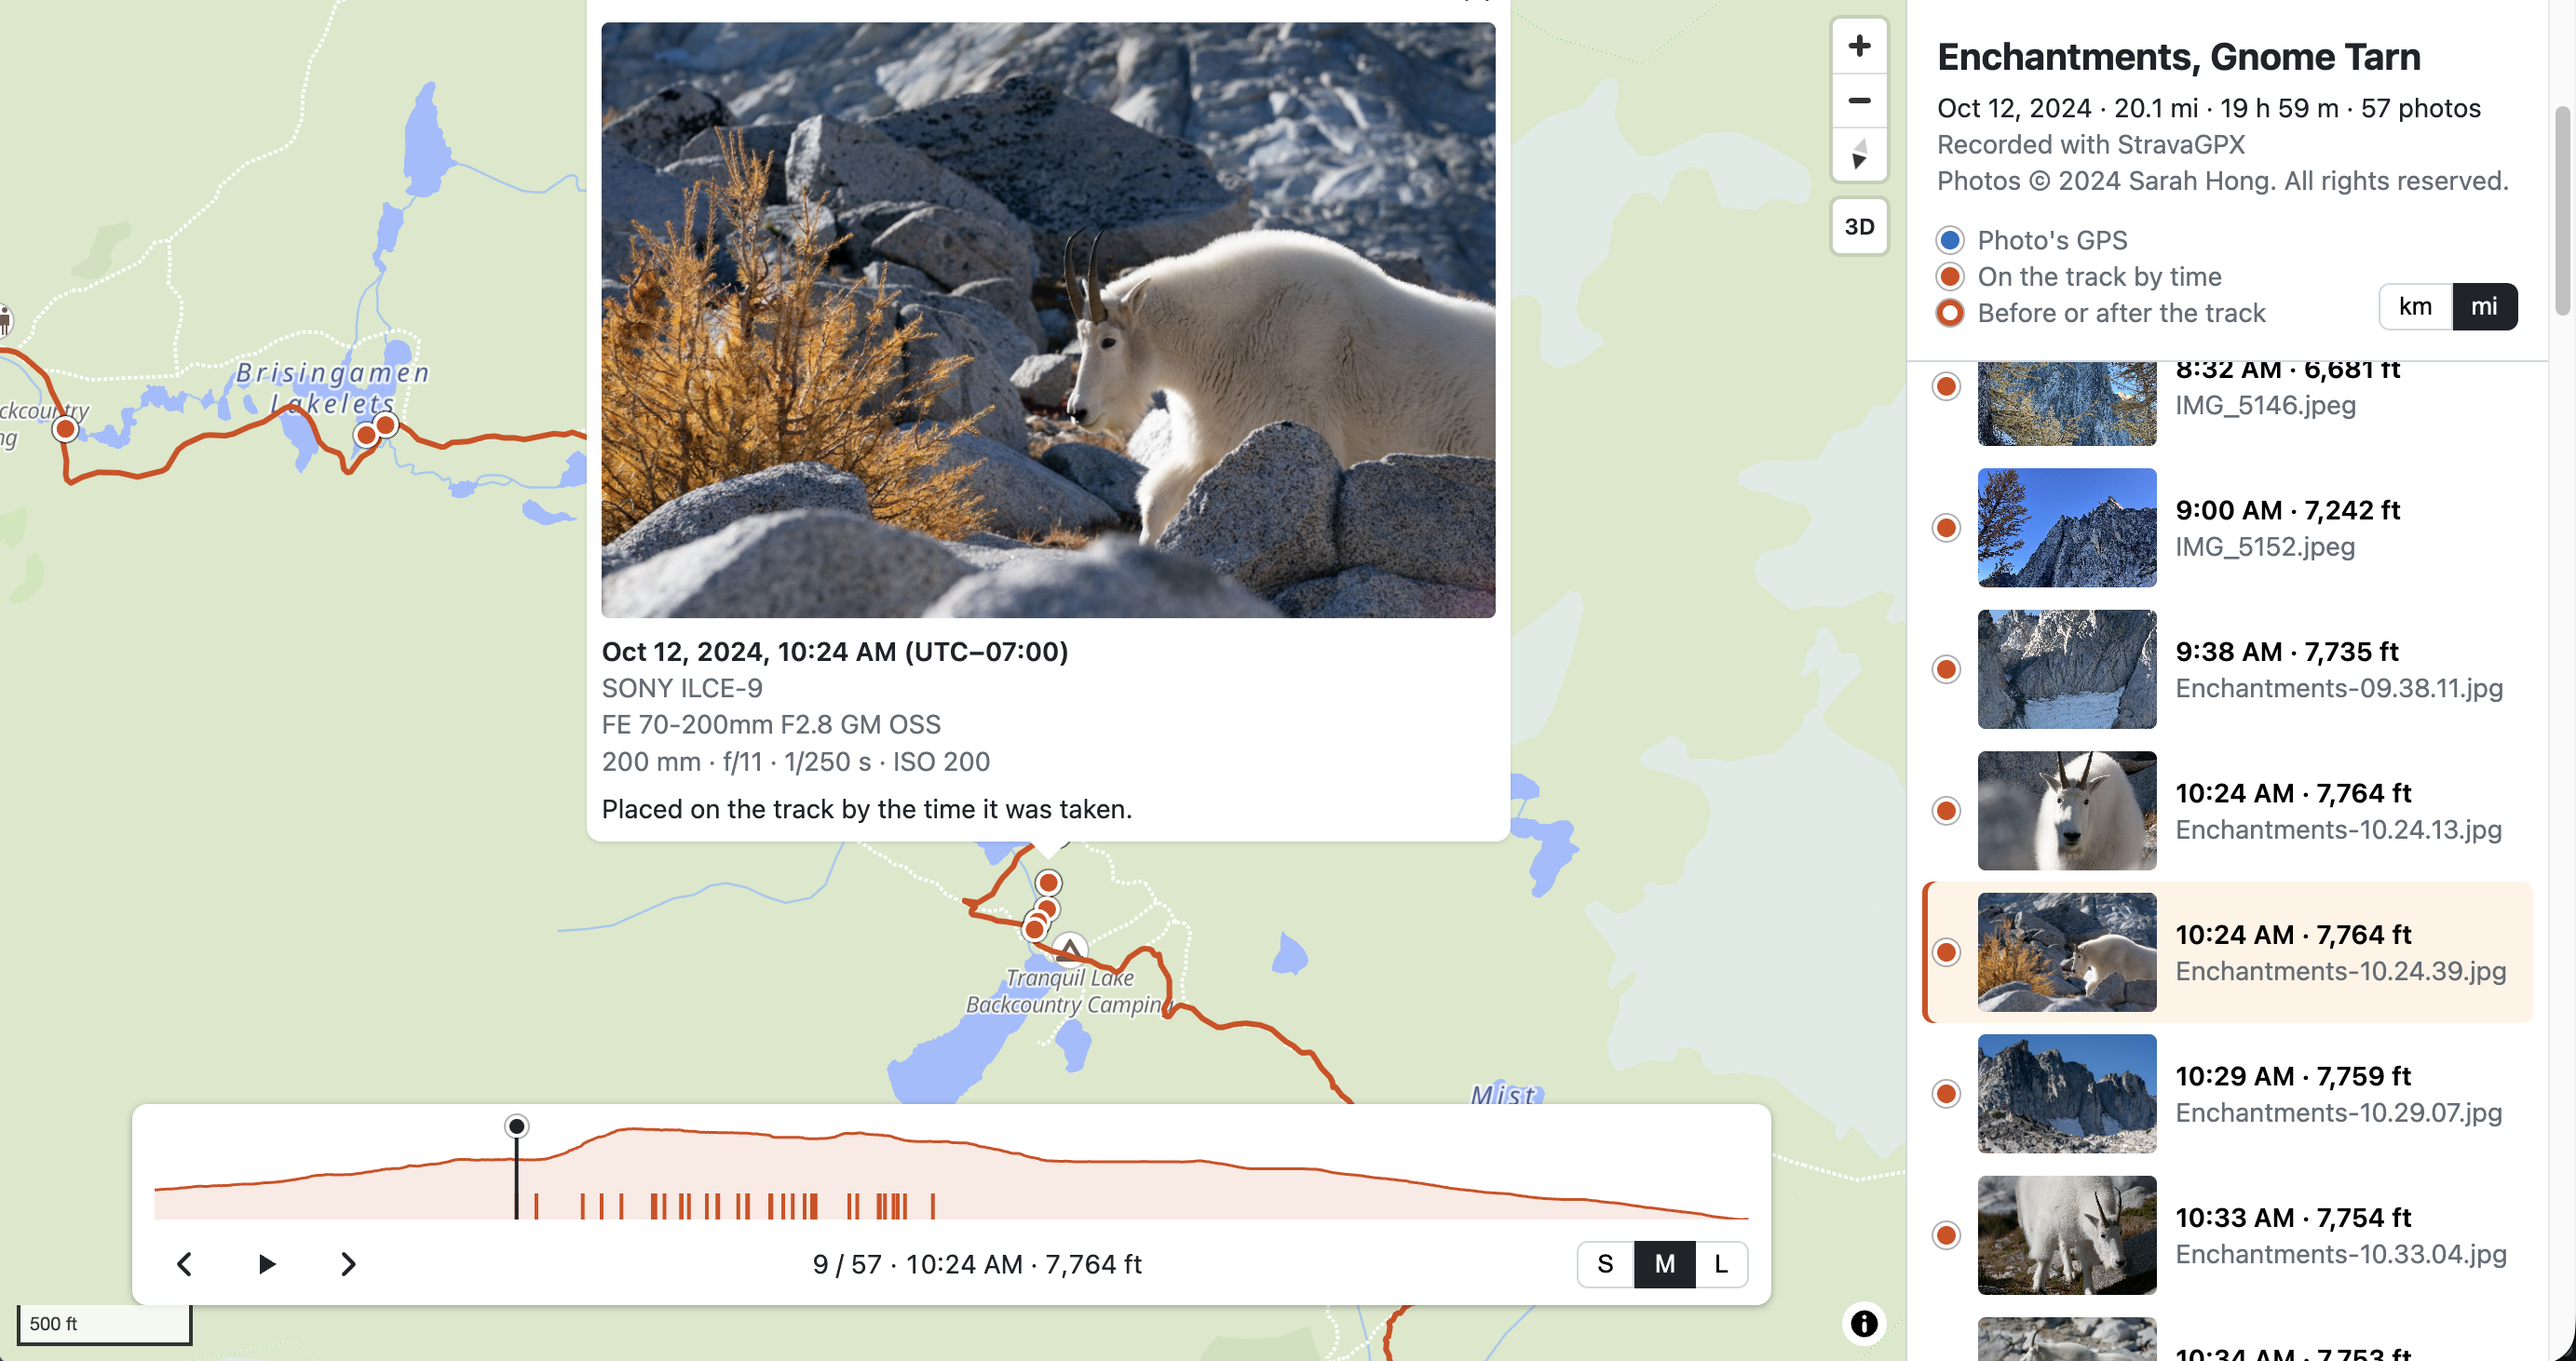
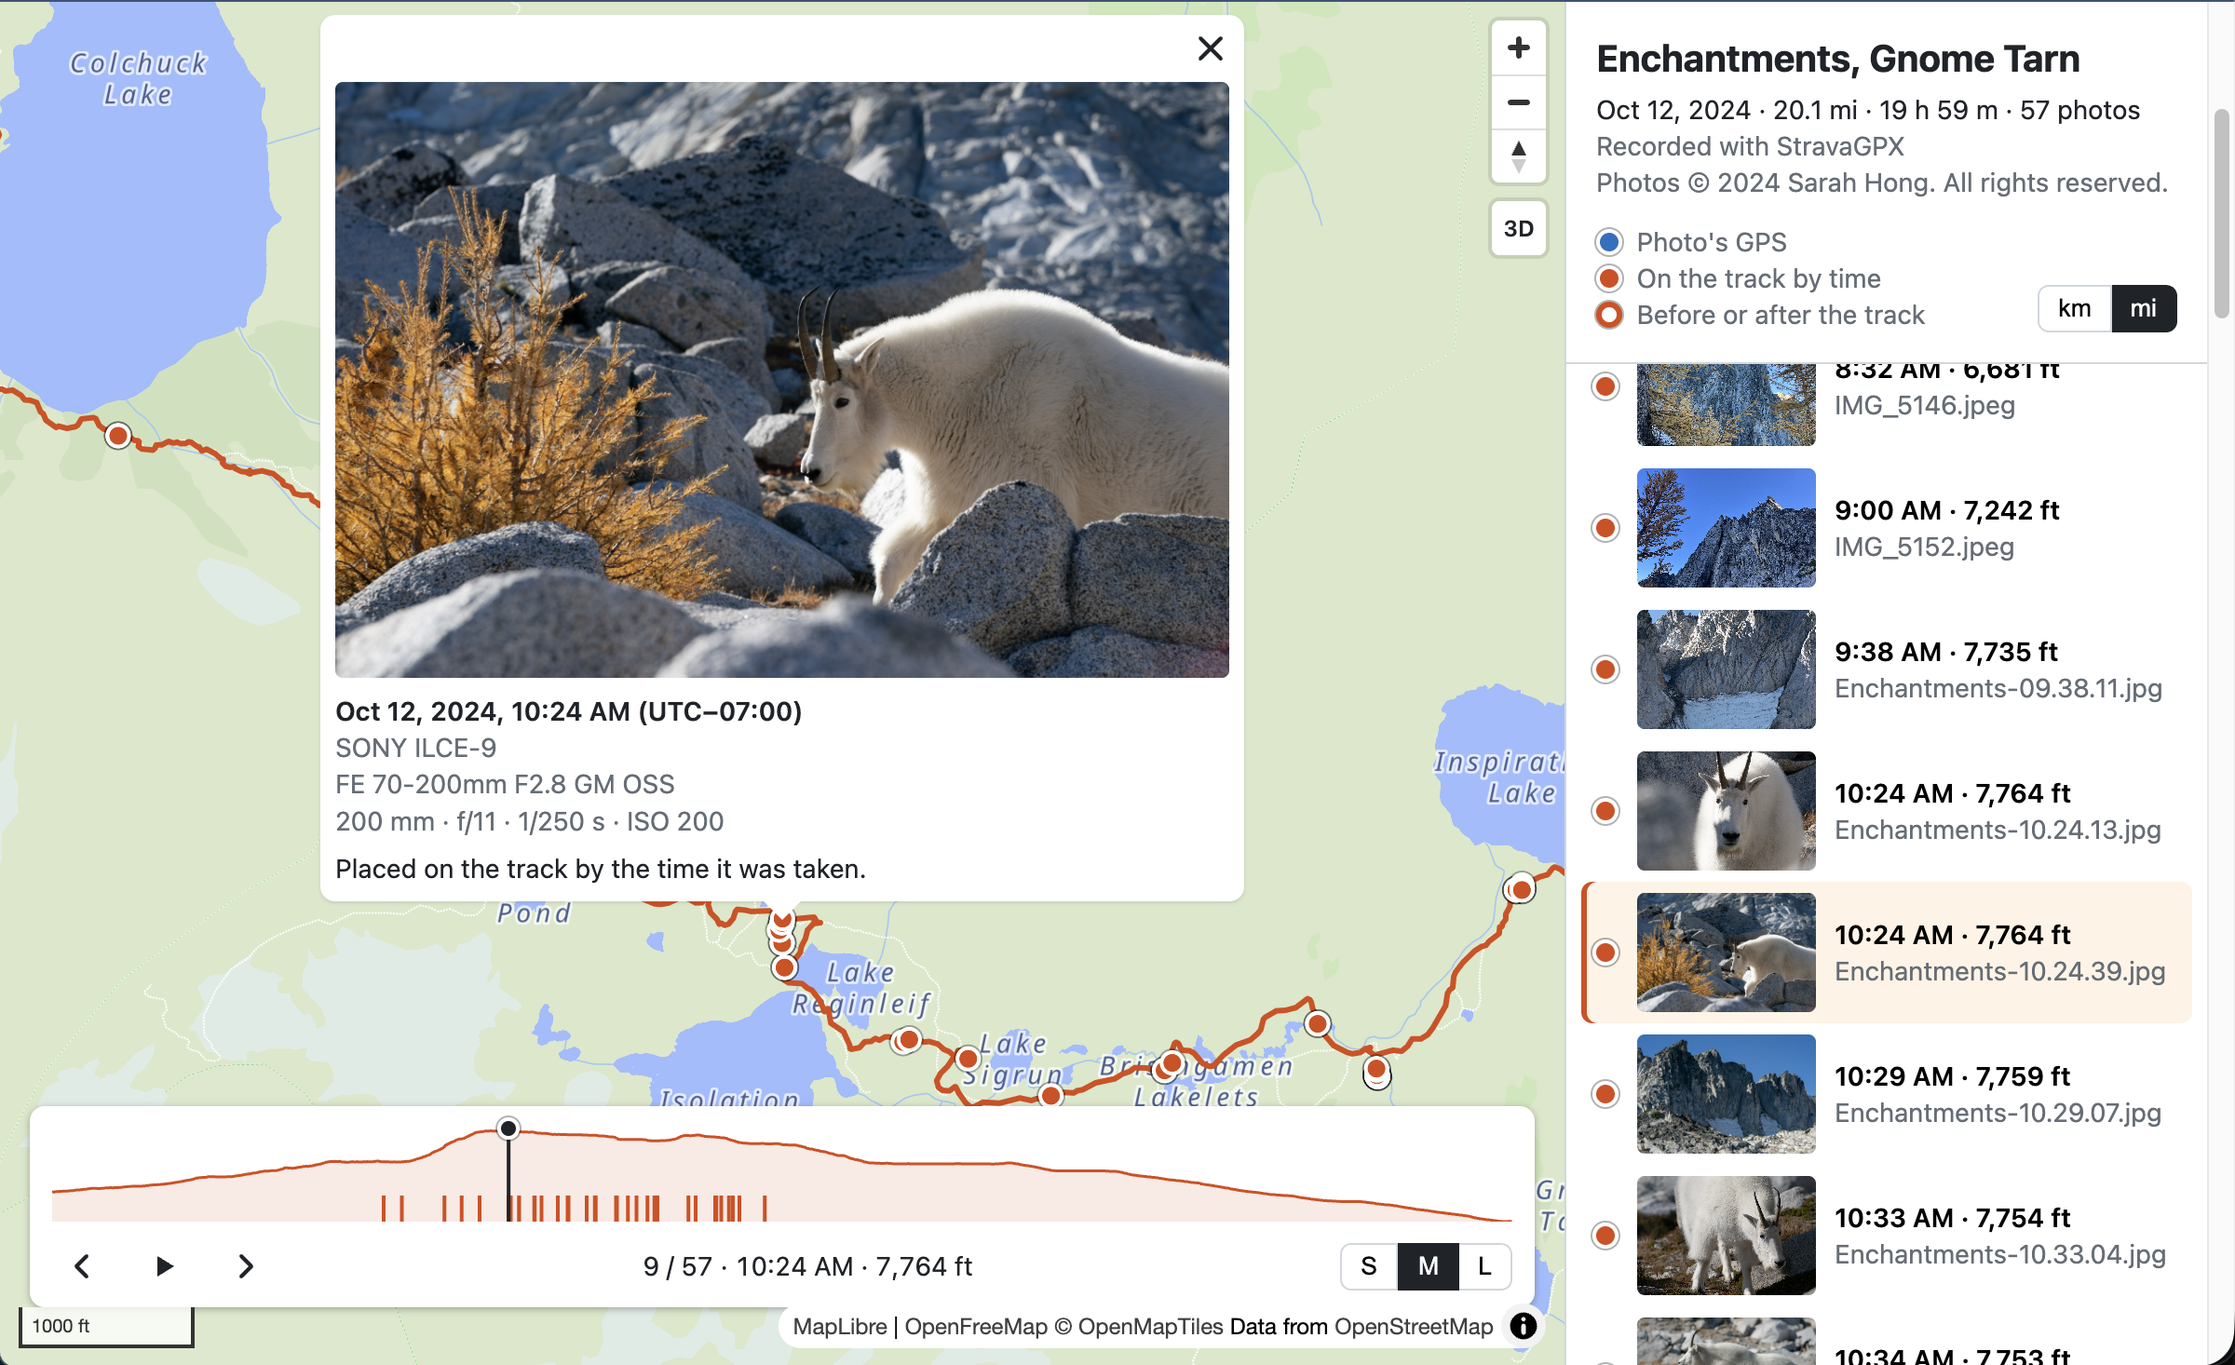
Fix flythrough handle to update when selecting photos from side panel, fix readme (#11)

diff --git a/internal/site/web/assets/app.js b/internal/site/web/assets/app.js
@@ -504,13 +504,23 @@ function highlightPin(index, on) {
 const popup = new maplibregl.Popup({ offset: 12, maxWidth: "none", anchor: "bottom", closeOnClick: false, closeButton: false });
 popup.on("close", () => stops[current]?.row.classList.remove("current"));
 
+// resumeFrom sets the flythrough to resume from the photo at index in stops,
+// and moves the profile's playhead to it. A photo without a time isn't on
+// the timeline, so nothing changes.
+function resumeFrom(index) {
+  const { meters } = stops[index];
+  if (meters === undefined) return;
+  clock = timeline.find((part) => part.stop === index).start;
+  renderPlayhead(meters);
+}
+
 // openPopup opens the popup of the photo at index in stops, leaving the
 // flythrough, which resumes from this photo. The content is built here: an
 // <img> starts downloading as soon as it has a src.
 function openPopup(index) {
   leaveFlythrough();
-  const { photo, meters } = stops[index];
-  if (meters !== undefined) clock = timeline.find((part) => part.stop === index).start;
+  resumeFrom(index);
+  const { photo } = stops[index];
   const content = popupContent(photo);
   content.querySelector("img").addEventListener("load", fitPopup);
   popup.remove(); // before select, as closing unhighlights the current row
@@ -526,6 +536,7 @@ function show(index) {
   leaveFlythrough(); // before flyTo, so the follow camera doesn't move the map
   popup.remove();
   select(index);
+  resumeFrom(index); // now, rather than once the camera arrives
   // No padding: the flythrough leaves some to keep its marker clear of the dock.
   const camera = { center, zoom: Math.max(map.getZoom(), photoZoom), padding: noPadding };
   if (map.getTerrain() && meters !== undefined) {
@@ -755,6 +766,15 @@ function clockAt(meters) {
   return part.start + (Math.acos(1 - 2 * fraction) / Math.PI) * part.seconds; // inverse of ease
 }
 
+// renderPlayhead moves the profile's playhead, its handle, and the scrub
+// input to meters along the drawn track.
+function renderPlayhead(meters) {
+  playhead.setAttribute("x1", meters);
+  playhead.setAttribute("x2", meters);
+  handle.style.left = `${(meters / Math.max(trackMeters, 1)) * 100}%`;
+  scrub.value = String(meters);
+}
+
 // renderFlythrough moves the hiker, playhead, panel, and label to the clock.
 function renderFlythrough() {
   const index = partIndexAt(clock);
@@ -763,10 +783,7 @@ function renderFlythrough() {
   hiker = pointAt("meters", part.from + ease(fraction) * (part.to - part.from));
   atPhoto = part.stop !== undefined;
   map.getSource("hiker")?.setData(hikerGeoJSON()); // added on load
-  playhead.setAttribute("x1", hiker.meters);
-  playhead.setAttribute("x2", hiker.meters);
-  handle.style.left = `${(hiker.meters / Math.max(trackMeters, 1)) * 100}%`;
-  scrub.value = String(hiker.meters);
+  renderPlayhead(hiker.meters);
   // The panel shows the last photo the marker has reached, and the next
   // one downloads on the way.
   const reached = timeline.findLast((p) => p.stop !== undefined && p.start <= clock);

diff --git a/README.md b/README.md
@@ -2,7 +2,7 @@
 
 Go tool that places hike photos along a GPX track, using each photo's EXIF GPS or its time on the track. Runs locally and builds a static web page showing the photos on an interactive 2D and 3D map, for revisiting or sharing viewpoints.
 
-**Live example:** [The Enchantments](https://retrace-enchantments.shong88tx.workers.dev/), a page retrace generated from 57 photos and a Strava track. Try the 3D button and the arrow keys, as described in [The HTML page](#the-html-page). Ctrl-drag (or right-drag) tilts and turns the map.
+**Live example:** [The Enchantments](https://retrace-enchantments.shong88tx.workers.dev/), a page retrace generated from 57 photos and a Strava track. Try the 3D button and the arrow keys, as described in [The HTML page](#the-html-page).
 
 ## Motivation
 
@@ -40,12 +40,9 @@ retrace takes a directory of JPEG photos and a GPX track (with timestamps) recor
 # Phone photos: the clock sets itself, so no offset is needed
 retrace -photos ~/Pictures/enchantments -gpx enchantments.gpx
 
-# Camera photos, where the camera's clock is 2m30s behind the phone
-retrace -photos ~/Pictures/enchantments -gpx enchantments.gpx \
-  -offset ~/Pictures/enchantments/DSC00042.jpg=2m30s
-
-# Phone and camera photos together, written to another directory
-# (the offset applies only to the camera that took DSC00042.jpg)
+# Directory containing both camera and phone photos, where the camera's clock is 2m30s behind the phone
+# (the offset applies only to the camera that took DSC00042.jpg),
+# output written to another directory
 retrace -photos ~/Pictures/enchantments -gpx enchantments.gpx \
   -offset ~/Pictures/enchantments/DSC00042.jpg=2m30s -output ~/Sites/enchantments
 
@@ -104,7 +101,7 @@ Press ▶ (or Space) to fly along the trail: a marker follows the track, pausing
 
 ### Finding your camera's offset
 
-If the photos have no GPS, retrace places them on the track by time. It converts each photo's `DateTimeOriginal` to UTC using the timezone the camera recorded in `OffsetTimeOriginal`. If the camera recorded no timezone, retrace assumes the time is already UTC. The flag `-offset photo=duration` then adds a correction for the camera that took the `photo`, e.g. `-offset DSC00042.jpg=2m30s`: every photo with the same EXIF `Make` and `Model` as DSC00042.jpg gets 2m30s added. Use the clock photo from the steps below, or any other photo from that camera. Repeat the flag once per camera. If you don't add an offset for a camera, there will be no correction. Photos taken by a phone won't need an offset correction since their clocks set themselves.
+Photos without GPS are placed on the track by time, so a camera whose clock is off needs a correction: `-offset DSC00042.jpg=2m30s` adds 2m30s to every photo with the same EXIF `Make` and `Model` as DSC00042.jpg (use the clock photo from the steps below, or any photo from that camera; repeat the flag once per camera). Phones set their clocks themselves and need none.
 
 How to determine the -offset duration:
 
@@ -177,10 +174,9 @@ flowchart TD
 Rounded boxes are retrace's inputs and its output, and the other boxes are structs. Each solid arrow is labelled with the function that writes the struct it points to; the dotted arrow is a field. How photos pass through the enrichers is described under [Enrichment](#enrichment).
 
 - `geo.Point` (`Lat`, `Lon`) is the only coordinate type. Track points, EXIF GPS, and photo locations all use it, so `locate` copies a `gpx.TrackPoint`'s `Point` straight into a `photo.Location`.
-- `time.Time` is always UTC. `exif` converts camera time when it reads it and `gpx` converts track time when it parses it, so `locate` compares a photo's `Time` with track times directly.
 - `exif.Camera` (`Make`, `Model`) identifies a camera. It's a struct of two strings, so it can be compared with `==` and used as a map key: `locate.Offsets` stores one offset per `exif.Camera`, and `locate.Summarize` groups photos by it.
-- `photo.Photo` is everything retrace knows about one photo. `photo.FromEXIF` builds it from `exif.Metadata`, renaming `TimeOffset` to `RecordedOffset` so it isn't mistaken for the `-offset` correction. Each enricher takes one and returns an updated copy. Unknown values stay empty instead of using a default that looks real: a zero `Time`, a `nil` `Location`.
-- `photo.Location` (`Point`, `Source`, `TimeFromTrackEnd`, `ElevationMeters`) records where a photo was taken and how that was figured out: `exif`, `interpolated`, or `track_end`. `TimeFromTrackEnd` says how far a `track_end` photo was from the track. `ElevationMeters` comes from the same place as `Point`: EXIF `GPSAltitude`, or the track.
+- `photo.Photo` is everything retrace knows about one photo. `photo.FromEXIF` builds it from `exif.Metadata`, renaming `TimeOffset` to `RecordedOffset` so it isn't mistaken for the `-offset` correction. Each enricher takes one and returns an updated copy.
+- `photo.Location` (`Point`, `Source`, `TimeFromTrackEnd`, `ElevationMeters`) records where a photo was taken and how that was figured out: `exif`, `interpolated`, or `track_end`. `TimeFromTrackEnd` says how far a `track_end` photo was from the track.
 - `enrich.Result` pairs each finished `photo.Photo` with the errors from enrichers that failed on it, so one bad photo is reported without stopping the run.
 - `site.Data` is what the page shows, built by `site.New` from the track and the enriched photos. Its types are separate from `photo.Photo` and `gpx.Track` because the JSON is a contract with the page's JavaScript: key names carry units (`elevation_meters`, `seconds_from_track_end`), and it leaves out what the page doesn't need. `site.Write` writes it into `index.html` and copies each photo through `exif.StripMetadata`.
 
@@ -258,8 +254,7 @@ Rounded boxes are retrace's inputs and its output, and the other boxes are struc
 - An enricher (`enrich.Enricher`) takes a photo and returns an updated copy: reading EXIF first, then location. They run in order for each photo, since locating needs the time EXIF provides.
 - One enricher failing doesn't stop the others: its result is discarded, the error is kept with the photo, and the next enricher gets the photo unchanged. So a photo with malformed EXIF is kept, unlocated, with a warning: one bad photo out of 500 shouldn't ruin the run, though a bad GPX file still does.
 - Enrichers take and return a photo value rather than a pointer. If an enricher fails, its returned photo is ignored and the next enricher gets the photo from before. That's only safe if the failed enricher changed nothing but its own copy, and the copy is shallow: pointer fields such as `Location` point at the same data in both the original and returned photos. So enrichers must assign new values to those fields instead of modifying them.
-- Concurrency uses [errgroup](https://pkg.go.dev/golang.org/x/sync/errgroup) from the Go team's `golang.org/x/sync`, whose `SetLimit` caps how many photos are processed at once. Each goroutine writes only its own element of the results slice, so no mutex or channel is needed and results stay in input order.
-- No lock is needed because nothing is shared: the Go [memory model](https://go.dev/ref/mem) only calls it a data race when goroutines access the same memory location, and each goroutine writes a different element. Reading the results after `Wait` is safe because a `sync.WaitGroup`'s `Done` "synchronizes before" `Wait` returns. This is the pattern in errgroup's own `ExampleGroup_parallel`. The tests run `Run` with several workers under `go test -race`, which reports any unsafe write.
+- Concurrency uses [errgroup](https://pkg.go.dev/golang.org/x/sync/errgroup) from the Go team's `golang.org/x/sync`, whose `SetLimit` caps how many photos are processed at once. Each goroutine writes only its own element of the results slice, so results stay in input order and no lock is needed: the Go [memory model](https://go.dev/ref/mem) only calls it a data race when goroutines access the same memory location, and reading the results after `Wait` is safe because `Done` "synchronizes before" `Wait` returns. This is the pattern in errgroup's own `ExampleGroup_parallel`, and the tests run `Run` with several workers under `go test -race`.
 - Only cancelling (Ctrl-C) stops a run. Enricher errors never cancel it, so the group is created without `errgroup.WithContext`.
 - It isn't a channel pipeline in the sense of the Go blog's [Pipelines and cancellation](https://go.dev/blog/pipelines) (stages of goroutines connected by channels): enrichers are plain function calls inside one goroutine per photo, since only reading EXIF is slow per photo. Splitting them into stages would add channels to close and cancel without making anything faster.
 
@@ -276,7 +271,6 @@ Rounded boxes are retrace's inputs and its output, and the other boxes are struc
 
 - A notice is optional for works created after March 1, 1989, but the U.S. Copyright Office notes legal benefits to including one. It has three parts: ©, the year of first publication, and the owner's name ([Circular 3](https://www.copyright.gov/circs/circ03.pdf)).
 - retrace can't know when photos were first published, since they may have been posted elsewhere. It uses the year the track starts, which is never later, and doesn't change when the page is regenerated.
-- The notice covers the photos only. The page's code is retrace's, under its own license.
 
 **The data is inlined in the page.**
 
